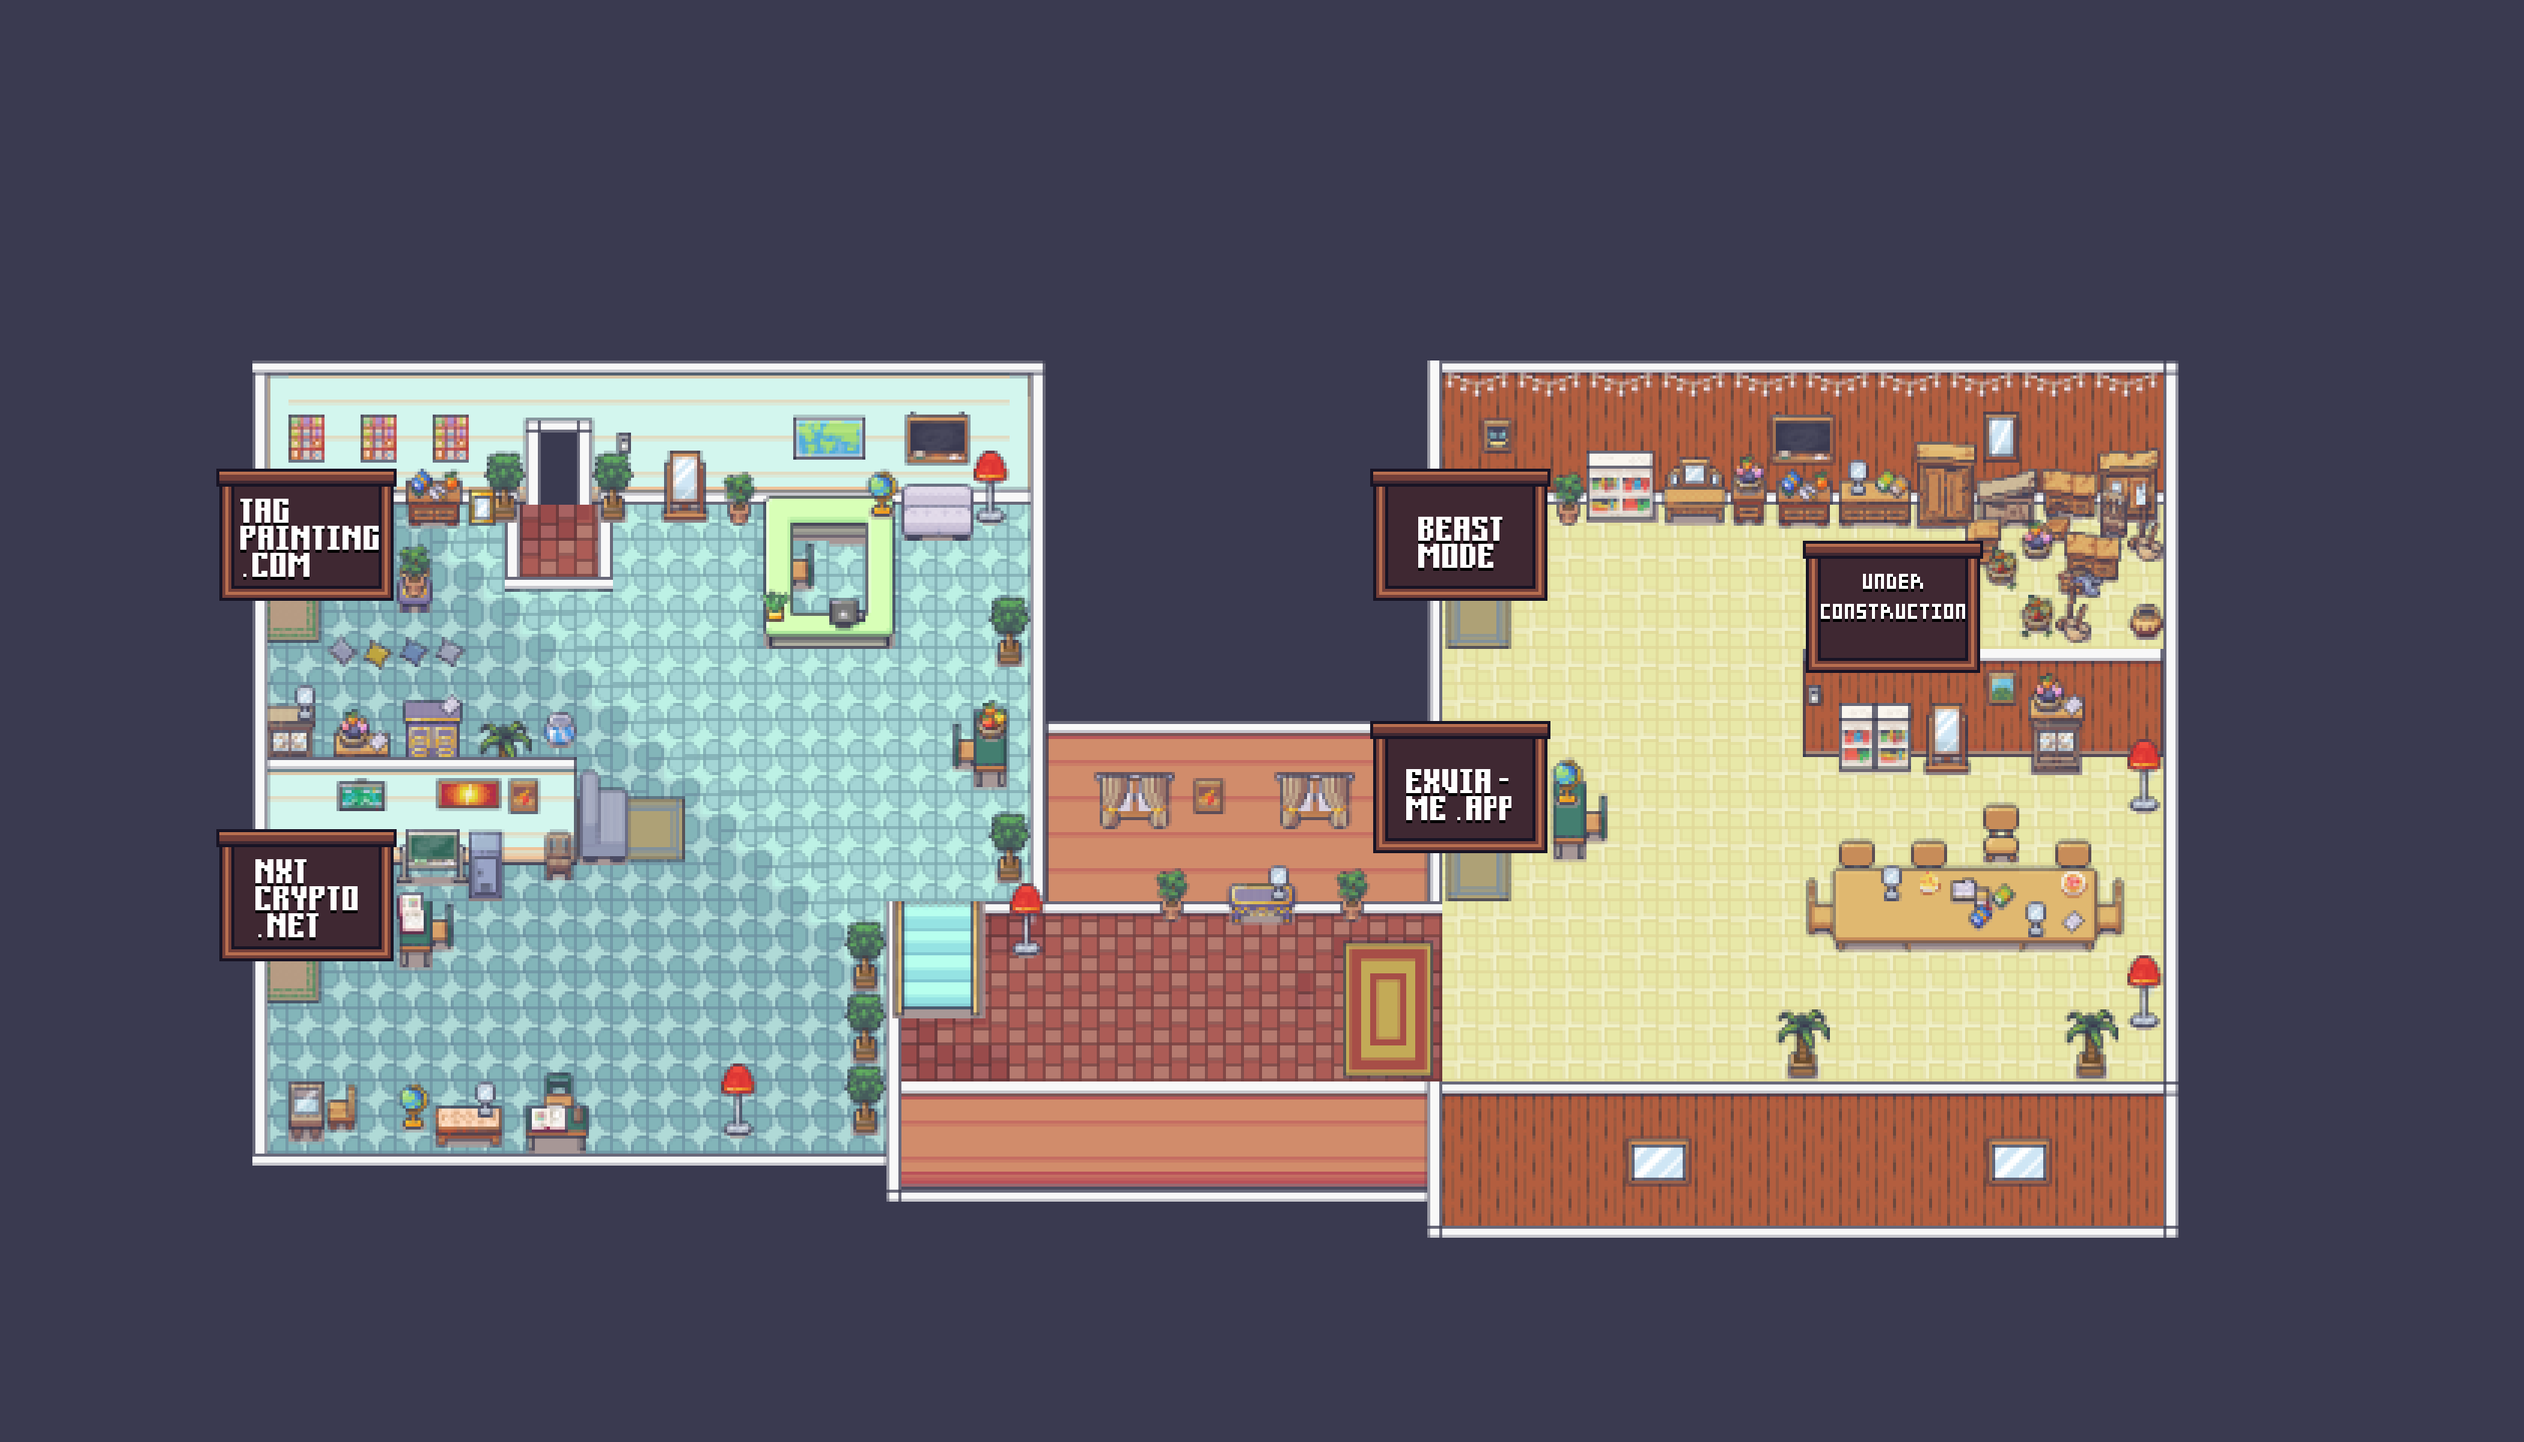
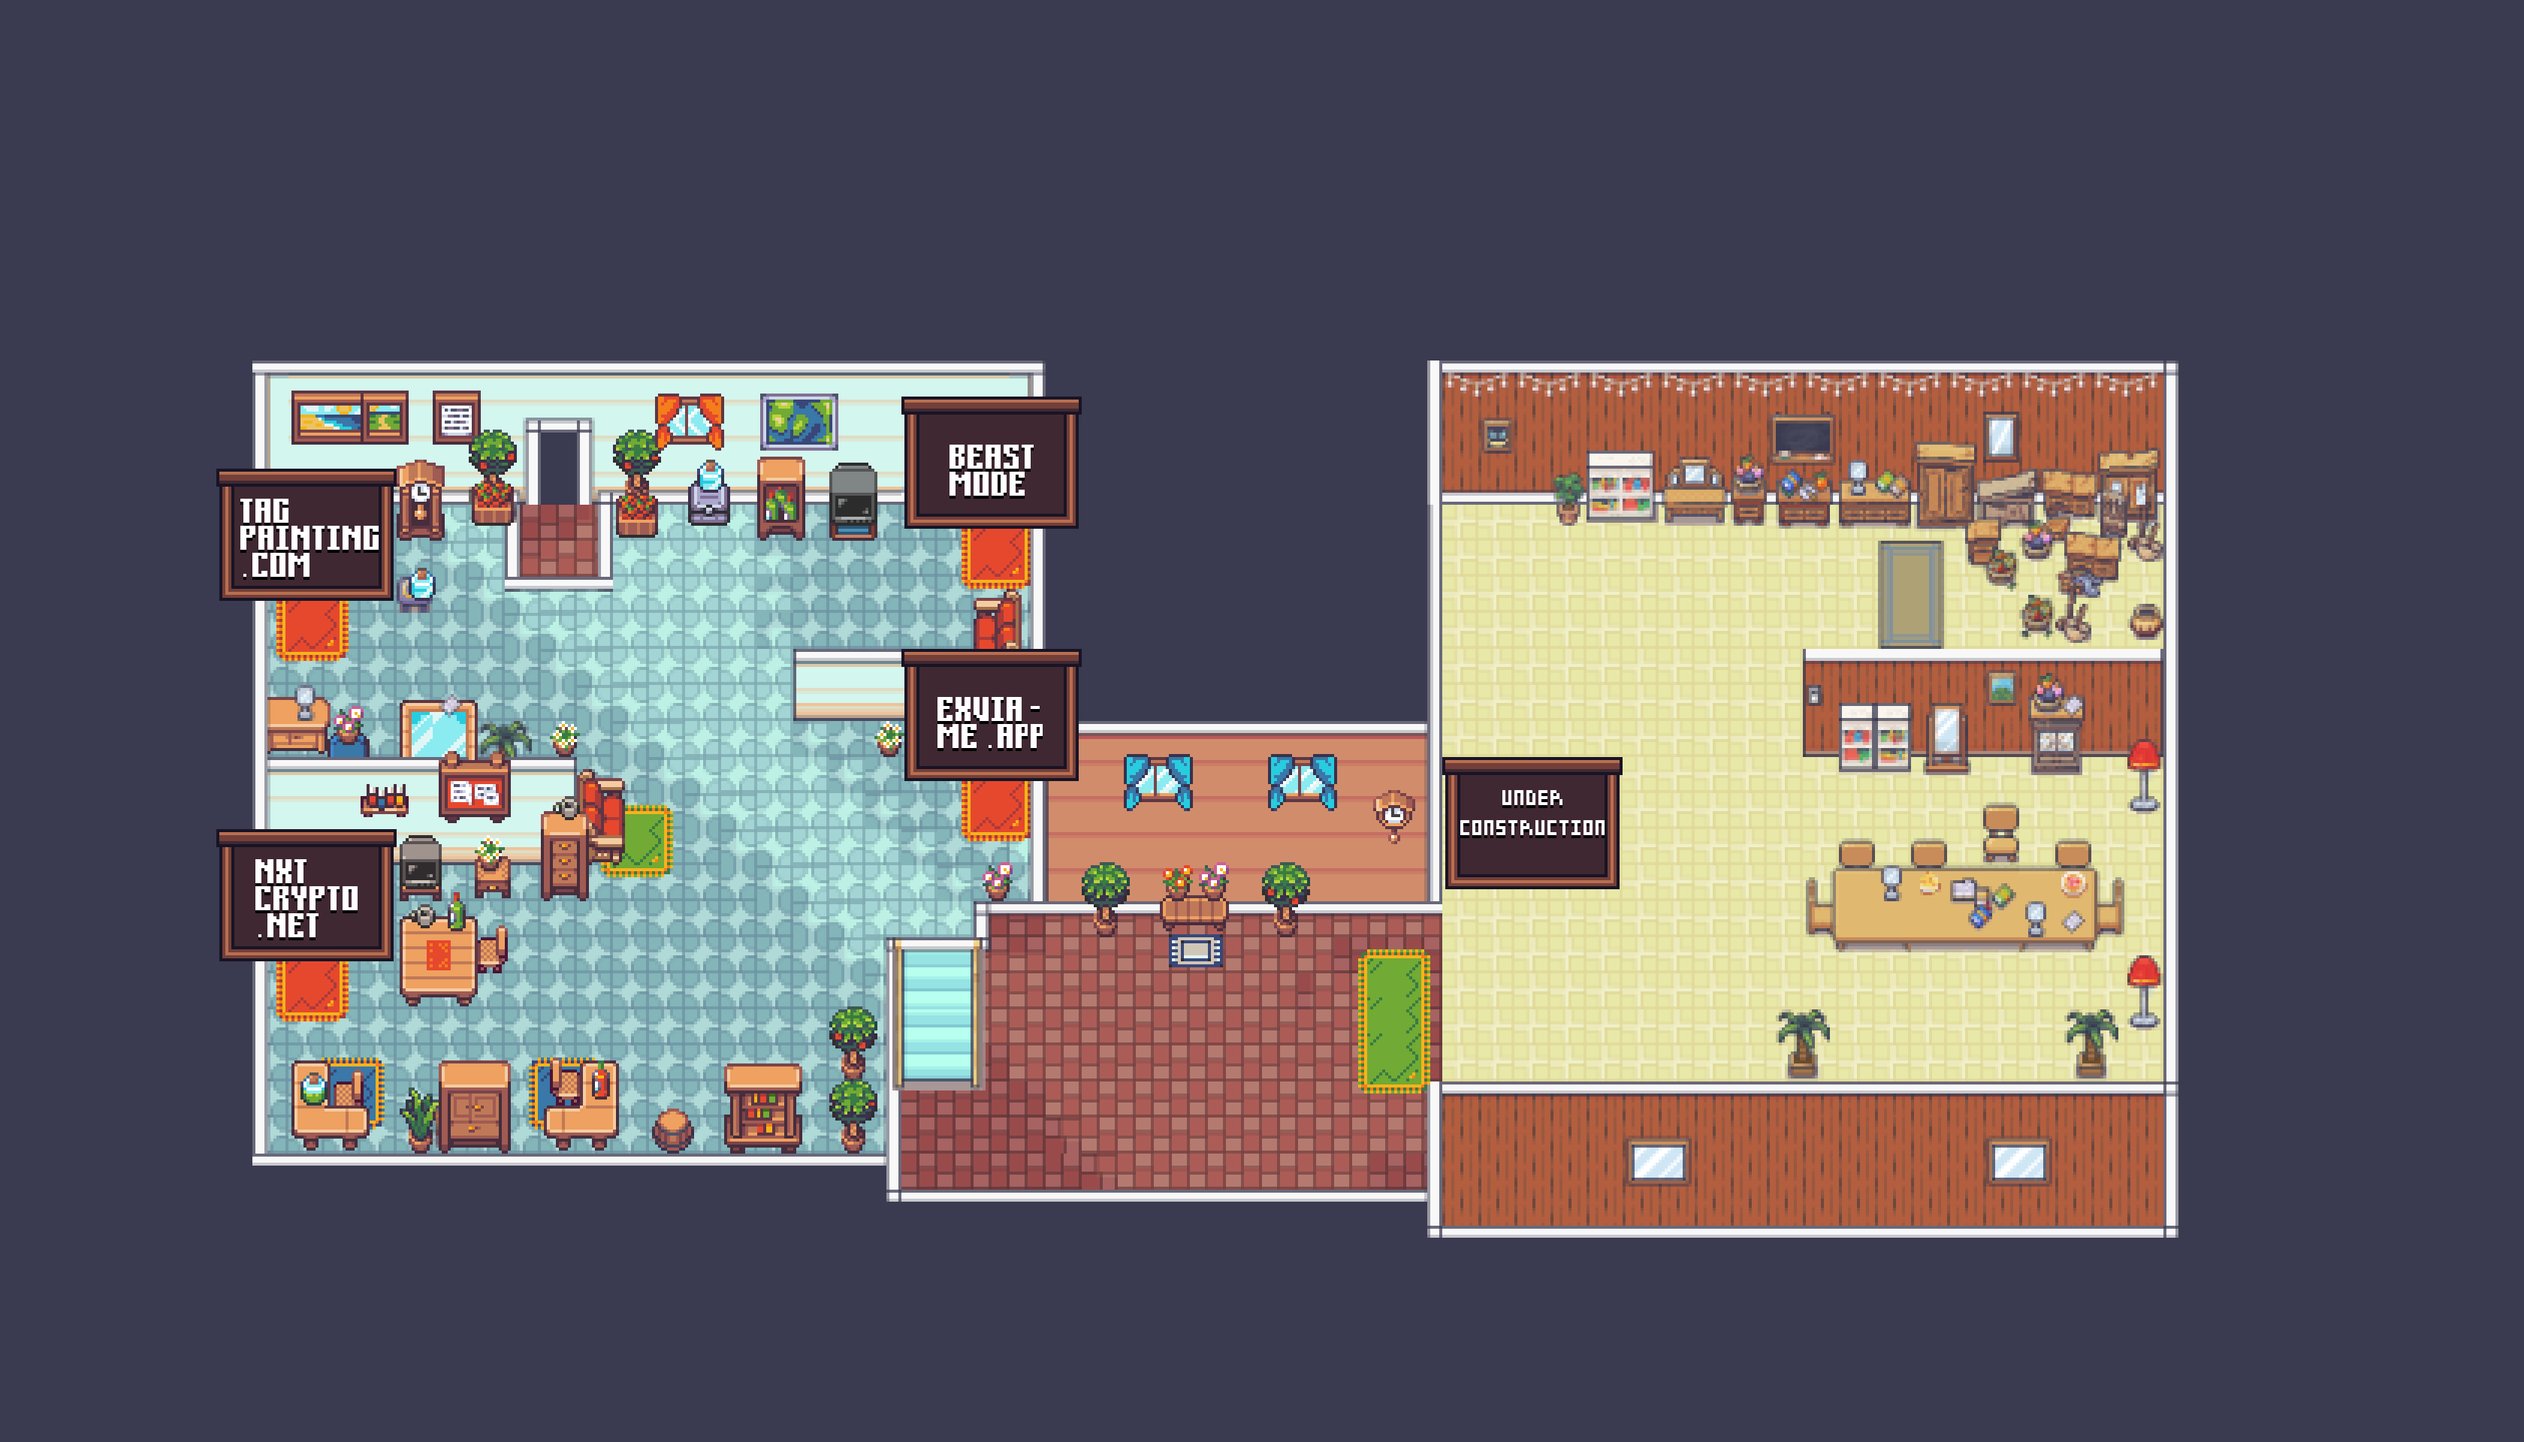
portfolio map

Changed region(s): [[0.0938, 0.25, 0.6562, 0.8438], [0.5312, 0.3125, 0.625, 0.4688], [0.6875, 0.375, 0.8125, 0.4688]]

diff --git a/js/data/portCollision.js b/js/data/portCollision.js
@@ -37,66 +37,65 @@ const portCollision = [
   0, 0, 0, 0, 0, 0, 0, 0, 0, 0, 392, 392, 392, 392, 0, 0, 0, 0, 0, 0, 0, 0, 0,
   0, 0, 0, 0, 0, 0, 0, 0, 0, 0, 0, 0, 0, 0, 0, 0, 0, 0, 0, 0, 0, 0, 0, 0, 0, 0,
   0, 0, 0, 0, 0, 0, 0, 0, 0, 0, 0, 0, 0, 0, 0, 0, 392, 392, 392, 392, 0, 0, 0,
-  392, 392, 392, 392, 0, 0, 0, 392, 0, 0, 0, 0, 392, 0, 0, 0, 0, 0, 0, 0, 0, 0,
+  392, 392, 392, 392, 392, 392, 392, 392, 0, 0, 0, 0, 392, 0, 0, 0, 0, 0, 0, 0,
   0, 0, 0, 392, 392, 392, 392, 392, 392, 392, 392, 392, 392, 392, 392, 392, 392,
-  392, 392, 392, 392, 0, 0, 0, 0, 0, 0, 0, 0, 0, 0, 0, 0, 0, 0, 0, 0, 0, 0, 0,
-  0, 392, 0, 0, 0, 0, 0, 0, 0, 0, 0, 0, 392, 0, 0, 392, 0, 0, 0, 0, 392, 0, 0,
-  0, 0, 0, 0, 0, 0, 0, 0, 0, 392, 0, 0, 0, 0, 0, 0, 0, 0, 392, 0, 0, 0, 0, 0, 0,
-  0, 0, 0, 392, 0, 0, 0, 0, 0, 0, 0, 0, 0, 0, 0, 0, 0, 0, 0, 0, 392, 392, 392,
-  0, 0, 0, 0, 0, 0, 0, 0, 0, 0, 0, 392, 0, 0, 392, 0, 0, 0, 0, 392, 0, 0, 0, 0,
-  0, 0, 0, 0, 0, 0, 392, 392, 0, 0, 0, 0, 0, 0, 0, 0, 392, 0, 0, 0, 0, 0, 0, 0,
-  0, 0, 392, 0, 0, 0, 0, 0, 0, 0, 0, 0, 0, 0, 0, 0, 0, 0, 392, 0, 0, 0, 0, 0, 0,
-  0, 0, 0, 0, 0, 0, 0, 0, 392, 392, 392, 392, 0, 0, 0, 0, 392, 0, 0, 0, 0, 0, 0,
-  0, 0, 0, 392, 0, 0, 0, 0, 0, 0, 0, 0, 0, 0, 392, 0, 0, 0, 0, 0, 0, 0, 0, 0,
-  392, 0, 0, 0, 0, 0, 0, 0, 0, 0, 0, 0, 0, 0, 0, 0, 392, 0, 0, 0, 0, 0, 0, 0, 0,
-  0, 0, 0, 0, 0, 0, 0, 0, 0, 0, 0, 0, 0, 0, 392, 0, 0, 0, 0, 0, 0, 0, 0, 0, 392,
-  0, 0, 0, 0, 0, 0, 0, 0, 0, 0, 392, 0, 0, 0, 0, 0, 0, 0, 0, 0, 392, 0, 0, 0, 0,
-  0, 0, 0, 0, 0, 0, 0, 0, 0, 0, 0, 392, 0, 0, 0, 0, 0, 0, 0, 0, 0, 0, 0, 0, 0,
-  0, 0, 0, 0, 0, 0, 0, 0, 0, 392, 0, 0, 0, 0, 0, 0, 0, 0, 0, 392, 0, 0, 0, 0, 0,
-  0, 0, 0, 0, 0, 392, 0, 0, 0, 0, 0, 0, 0, 0, 0, 392, 0, 0, 0, 0, 0, 0, 0, 0, 0,
-  0, 0, 0, 0, 0, 0, 392, 0, 0, 0, 0, 0, 0, 0, 0, 0, 0, 0, 0, 0, 0, 0, 0, 0, 0,
-  0, 0, 0, 0, 392, 0, 0, 0, 0, 0, 0, 0, 0, 0, 392, 0, 0, 0, 0, 0, 0, 0, 0, 0, 0,
-  392, 392, 392, 392, 392, 392, 392, 392, 392, 392, 392, 0, 0, 0, 0, 0, 0, 0, 0,
-  0, 0, 0, 0, 0, 0, 0, 0, 392, 392, 0, 0, 392, 392, 0, 0, 0, 0, 0, 0, 0, 0, 0,
-  0, 0, 0, 0, 0, 0, 0, 392, 0, 0, 0, 0, 0, 0, 0, 0, 0, 392, 0, 0, 0, 0, 0, 0, 0,
+  392, 392, 392, 392, 392, 392, 0, 0, 0, 0, 0, 0, 0, 0, 0, 0, 0, 0, 0, 0, 0, 0,
+  0, 0, 0, 0, 392, 0, 0, 0, 0, 0, 0, 0, 0, 0, 0, 0, 0, 0, 0, 0, 0, 0, 0, 392, 0,
+  0, 0, 0, 0, 0, 0, 0, 0, 392, 0, 0, 0, 0, 0, 0, 0, 0, 0, 0, 392, 0, 0, 0, 0, 0,
+  0, 0, 0, 0, 392, 0, 0, 0, 0, 0, 0, 0, 0, 0, 0, 0, 0, 0, 0, 0, 0, 392, 392,
+  392, 0, 0, 0, 0, 0, 0, 0, 0, 0, 0, 0, 0, 0, 0, 0, 0, 0, 0, 0, 392, 0, 0, 0, 0,
+  0, 0, 0, 0, 0, 392, 0, 0, 0, 0, 0, 0, 0, 0, 0, 0, 392, 0, 0, 0, 0, 0, 0, 0, 0,
+  0, 392, 0, 0, 0, 0, 0, 0, 0, 0, 0, 0, 0, 0, 0, 0, 0, 392, 0, 0, 0, 0, 0, 0, 0,
+  0, 0, 0, 0, 0, 0, 0, 0, 0, 0, 0, 0, 0, 0, 0, 392, 0, 0, 0, 0, 0, 0, 0, 0, 0,
+  392, 0, 0, 0, 0, 0, 0, 0, 0, 0, 0, 392, 0, 0, 0, 0, 0, 0, 0, 0, 0, 392, 0, 0,
   0, 0, 0, 0, 0, 0, 0, 0, 0, 0, 0, 0, 0, 392, 0, 0, 0, 0, 0, 0, 0, 0, 0, 0, 0,
-  0, 0, 0, 0, 0, 0, 0, 392, 392, 0, 0, 392, 392, 392, 0, 0, 0, 0, 0, 0, 0, 0, 0,
+  0, 0, 0, 0, 0, 0, 0, 0, 0, 0, 0, 392, 0, 0, 0, 0, 0, 0, 0, 0, 0, 392, 0, 0, 0,
+  0, 0, 0, 0, 0, 0, 0, 392, 0, 0, 0, 0, 0, 0, 0, 0, 0, 392, 0, 0, 0, 0, 0, 0, 0,
+  0, 0, 0, 0, 0, 0, 0, 0, 392, 0, 0, 0, 0, 0, 0, 0, 0, 0, 0, 0, 0, 0, 0, 0, 392,
+  392, 392, 0, 0, 0, 0, 392, 0, 0, 0, 0, 0, 0, 0, 0, 0, 392, 0, 0, 0, 0, 0, 0,
   0, 0, 0, 0, 392, 0, 0, 0, 0, 0, 0, 0, 0, 0, 392, 0, 0, 0, 0, 0, 0, 0, 0, 0, 0,
-  0, 0, 0, 0, 0, 0, 0, 0, 0, 0, 392, 0, 0, 0, 0, 0, 0, 0, 0, 0, 0, 0, 0, 0, 0,
-  0, 0, 0, 0, 0, 0, 0, 0, 0, 0, 392, 0, 0, 0, 0, 0, 0, 0, 0, 0, 0, 0, 0, 0, 392,
-  0, 0, 0, 0, 0, 0, 0, 0, 0, 392, 392, 392, 392, 0, 0, 0, 0, 0, 0, 0, 0, 0, 0,
+  0, 0, 0, 0, 0, 392, 0, 0, 0, 0, 0, 0, 0, 0, 0, 0, 0, 0, 0, 0, 0, 0, 0, 0, 392,
+  392, 392, 392, 392, 0, 0, 0, 0, 0, 0, 0, 0, 0, 392, 0, 0, 0, 0, 0, 0, 0, 0, 0,
+  0, 392, 392, 392, 392, 392, 392, 392, 392, 392, 392, 392, 0, 0, 0, 0, 0, 0, 0,
+  0, 0, 0, 0, 0, 0, 0, 0, 0, 392, 392, 0, 0, 392, 392, 0, 0, 0, 0, 0, 0, 0, 0,
+  0, 0, 0, 0, 0, 0, 0, 0, 392, 0, 0, 0, 0, 0, 0, 0, 0, 0, 392, 0, 0, 0, 0, 0, 0,
+  0, 0, 0, 0, 0, 0, 0, 0, 0, 0, 0, 0, 0, 0, 392, 0, 0, 0, 0, 0, 0, 0, 0, 0, 0,
+  0, 0, 0, 0, 0, 0, 0, 0, 392, 392, 0, 0, 392, 392, 392, 0, 0, 0, 0, 0, 0, 0, 0,
+  0, 0, 0, 0, 0, 392, 0, 0, 0, 0, 0, 0, 0, 0, 0, 392, 0, 0, 0, 0, 0, 0, 0, 0, 0,
+  0, 0, 0, 0, 0, 0, 0, 0, 0, 0, 0, 392, 0, 0, 0, 0, 0, 0, 0, 0, 0, 0, 0, 0, 0,
+  0, 0, 0, 0, 0, 0, 0, 0, 0, 0, 0, 392, 0, 0, 0, 0, 0, 0, 0, 0, 0, 0, 0, 0, 0,
+  392, 0, 0, 0, 0, 0, 0, 0, 0, 0, 392, 0, 0, 0, 0, 0, 0, 0, 0, 0, 0, 0, 0, 0, 0,
+  0, 0, 0, 0, 0, 0, 392, 0, 0, 0, 0, 0, 0, 0, 0, 0, 0, 0, 0, 0, 0, 0, 0, 0, 0,
+  0, 0, 0, 392, 392, 392, 0, 0, 0, 0, 0, 0, 0, 0, 0, 0, 0, 0, 0, 0, 392, 0, 0,
   0, 0, 0, 0, 0, 0, 0, 392, 0, 0, 0, 0, 0, 0, 0, 0, 0, 0, 0, 0, 0, 0, 0, 0, 0,
-  0, 0, 0, 0, 392, 392, 392, 0, 0, 0, 0, 0, 0, 0, 0, 0, 0, 0, 0, 0, 0, 392, 0,
-  0, 0, 0, 0, 0, 0, 0, 0, 392, 0, 0, 0, 0, 0, 0, 0, 0, 0, 0, 0, 0, 0, 0, 0, 0,
-  0, 0, 0, 0, 392, 0, 0, 0, 0, 0, 0, 0, 0, 0, 0, 0, 0, 0, 0, 0, 0, 0, 0, 0, 0,
-  392, 0, 0, 0, 0, 0, 0, 0, 0, 0, 0, 0, 0, 0, 0, 0, 0, 392, 392, 392, 392, 392,
-  392, 392, 392, 392, 392, 392, 392, 0, 0, 0, 0, 0, 0, 0, 0, 0, 0, 0, 392, 392,
-  392, 392, 392, 392, 392, 0, 0, 392, 0, 0, 0, 0, 0, 0, 0, 0, 0, 0, 0, 0, 0, 0,
-  0, 0, 392, 392, 392, 392, 392, 0, 0, 0, 0, 0, 0, 0, 0, 0, 0, 0, 0, 0, 0, 0, 0,
+  0, 0, 0, 392, 0, 0, 0, 0, 0, 0, 0, 0, 0, 0, 0, 0, 0, 0, 0, 0, 0, 0, 0, 0, 392,
+  0, 0, 0, 0, 0, 0, 0, 0, 0, 0, 0, 0, 0, 0, 0, 0, 0, 392, 392, 392, 392, 392,
+  392, 392, 392, 392, 392, 392, 0, 0, 0, 0, 0, 0, 0, 0, 0, 0, 0, 392, 392, 392,
+  392, 392, 392, 392, 0, 0, 392, 0, 0, 0, 0, 0, 0, 0, 0, 0, 0, 0, 0, 0, 0, 0, 0,
+  392, 392, 392, 392, 392, 0, 0, 0, 0, 0, 0, 0, 0, 0, 0, 0, 0, 0, 0, 0, 392,
   392, 0, 0, 0, 0, 0, 0, 0, 0, 0, 0, 0, 0, 0, 0, 0, 0, 0, 0, 0, 0, 0, 0, 392,
   392, 392, 392, 392, 392, 392, 0, 0, 392, 0, 0, 0, 0, 0, 0, 0, 0, 0, 0, 0, 0,
-  0, 0, 0, 392, 0, 0, 0, 0, 0, 0, 0, 0, 0, 0, 0, 0, 0, 0, 0, 0, 0, 392, 0, 0, 0,
-  392, 0, 0, 0, 0, 0, 0, 0, 0, 0, 0, 0, 0, 0, 0, 0, 0, 0, 0, 0, 0, 0, 0, 0, 0,
-  0, 0, 0, 0, 0, 0, 0, 392, 0, 0, 0, 0, 0, 0, 0, 0, 0, 0, 0, 0, 0, 0, 0, 392, 0,
-  0, 0, 0, 0, 0, 0, 0, 0, 0, 0, 0, 0, 0, 0, 0, 0, 392, 0, 0, 0, 0, 0, 0, 0, 0,
+  0, 0, 0, 392, 0, 0, 0, 0, 392, 392, 0, 0, 0, 0, 0, 0, 0, 0, 0, 0, 0, 392, 0,
   0, 0, 0, 0, 0, 0, 0, 0, 0, 0, 0, 0, 0, 0, 0, 0, 0, 0, 0, 0, 0, 0, 0, 0, 0, 0,
-  0, 392, 0, 0, 0, 0, 0, 0, 0, 0, 0, 0, 0, 0, 0, 0, 0, 392, 0, 0, 0, 0, 0, 0, 0,
-  0, 0, 0, 0, 0, 0, 0, 0, 0, 0, 392, 0, 0, 0, 0, 0, 0, 0, 0, 0, 0, 0, 0, 0, 0,
-  0, 0, 0, 0, 0, 0, 0, 0, 0, 0, 0, 0, 0, 0, 0, 0, 0, 0, 0, 0, 0, 392, 0, 0, 0,
-  0, 0, 0, 0, 0, 0, 0, 0, 0, 0, 0, 0, 392, 0, 0, 0, 0, 0, 0, 0, 0, 0, 0, 0, 0,
-  0, 0, 0, 0, 0, 392, 0, 0, 0, 0, 0, 0, 0, 0, 0, 0, 0, 0, 0, 0, 0, 0, 0, 0, 0,
-  0, 0, 0, 0, 0, 0, 0, 0, 0, 0, 0, 0, 0, 0, 0, 0, 392, 0, 0, 0, 0, 0, 0, 0, 0,
-  0, 0, 0, 0, 0, 0, 0, 392, 0, 0, 0, 0, 0, 0, 0, 0, 0, 0, 0, 0, 0, 0, 0, 0, 0,
-  392, 0, 0, 0, 0, 0, 0, 0, 0, 0, 0, 0, 0, 0, 0, 0, 0, 0, 0, 0, 0, 0, 0, 0, 0,
+  0, 0, 0, 0, 0, 0, 0, 0, 392, 0, 0, 0, 0, 0, 0, 0, 0, 0, 0, 0, 0, 0, 0, 0, 392,
+  0, 0, 0, 0, 0, 0, 0, 0, 0, 0, 0, 0, 0, 0, 0, 0, 0, 392, 0, 0, 0, 0, 0, 0, 0,
+  0, 0, 0, 0, 0, 0, 0, 0, 0, 0, 0, 0, 0, 0, 0, 0, 0, 0, 0, 0, 0, 0, 0, 0, 0, 0,
+  0, 0, 392, 0, 0, 0, 0, 0, 0, 0, 0, 0, 0, 0, 0, 0, 0, 0, 392, 0, 0, 0, 0, 0, 0,
   0, 0, 0, 0, 0, 0, 0, 0, 0, 0, 0, 392, 0, 0, 0, 0, 0, 0, 0, 0, 0, 0, 0, 0, 0,
-  0, 0, 392, 0, 0, 0, 0, 0, 0, 0, 0, 0, 0, 0, 0, 0, 0, 0, 0, 0, 392, 0, 0, 0, 0,
-  0, 0, 0, 0, 0, 0, 0, 0, 0, 0, 0, 0, 0, 0, 0, 0, 0, 0, 0, 0, 0, 0, 0, 0, 0, 0,
-  0, 0, 0, 0, 0, 392, 0, 0, 0, 0, 0, 0, 0, 0, 0, 0, 0, 0, 0, 0, 0, 392, 0, 0, 0,
-  0, 0, 0, 0, 0, 0, 0, 0, 0, 0, 0, 0, 0, 0, 392, 392, 392, 392, 392, 392, 392,
+  0, 0, 0, 0, 0, 0, 0, 0, 0, 0, 0, 0, 0, 0, 0, 0, 0, 0, 0, 0, 0, 0, 392, 0, 0,
+  0, 0, 0, 0, 0, 0, 0, 0, 0, 0, 0, 0, 0, 392, 0, 0, 0, 0, 0, 0, 0, 0, 0, 0, 0,
+  0, 0, 0, 0, 0, 0, 392, 0, 0, 0, 0, 0, 0, 0, 0, 0, 0, 0, 0, 0, 0, 0, 0, 0, 0,
+  0, 0, 0, 0, 0, 0, 0, 0, 0, 0, 0, 0, 0, 0, 0, 0, 0, 392, 0, 0, 0, 0, 0, 0, 0,
+  0, 0, 0, 0, 0, 0, 0, 0, 392, 0, 0, 0, 0, 0, 0, 0, 0, 0, 0, 0, 0, 0, 0, 0, 0,
+  0, 392, 0, 0, 0, 0, 0, 0, 0, 0, 0, 0, 0, 0, 0, 0, 0, 0, 0, 0, 0, 0, 0, 0, 0,
+  0, 0, 0, 0, 0, 0, 0, 0, 0, 0, 0, 0, 392, 0, 0, 0, 0, 0, 0, 0, 0, 0, 0, 0, 0,
+  0, 0, 0, 392, 0, 392, 392, 0, 0, 392, 392, 0, 392, 392, 0, 392, 0, 392, 392,
+  0, 0, 392, 0, 0, 0, 0, 0, 0, 0, 0, 0, 0, 0, 0, 0, 0, 0, 0, 0, 0, 0, 0, 0, 0,
+  0, 0, 0, 0, 0, 0, 0, 0, 0, 0, 0, 0, 0, 392, 0, 0, 0, 0, 0, 0, 0, 0, 0, 0, 0,
+  0, 0, 0, 0, 0, 392, 0, 0, 392, 392, 0, 0, 392, 0, 0, 392, 0, 392, 0, 0, 392,
   392, 392, 392, 392, 392, 392, 392, 392, 392, 392, 392, 392, 392, 392, 392,
-  392, 392, 392, 392, 392, 392, 392, 392, 392, 392, 392, 392, 392, 392, 0, 0, 0,
-  0, 0, 0, 0, 0, 0, 0, 0, 0, 0, 0, 0, 0, 0, 392, 392, 392, 392, 392, 392, 392,
-  392, 392, 392, 392, 392, 392, 392, 392, 392, 392, 0, 0, 0, 0, 0, 0, 0, 0, 0,
+  392, 392, 392, 392, 392, 392, 392, 392, 392, 392, 392, 392, 392, 392, 392,
+  392, 392, 392, 392, 392, 392, 392, 0, 0, 0, 0, 0, 0, 0, 0, 0, 0, 0, 0, 0, 0,
   0, 0, 0, 0, 0, 0, 0, 0, 0, 0, 0, 0, 0, 0, 0, 0, 0, 0, 0, 0, 0, 0, 0, 0, 0, 0,
   0, 0, 0, 0, 0, 0, 0, 0, 0, 0, 0, 0, 0, 0, 0, 0, 0, 0, 0, 0, 0, 0, 0, 0, 0, 0,
   0, 0, 0, 0, 0, 0, 0, 0, 0, 0, 0, 0, 0, 0, 0, 0, 0, 0, 0, 0, 0, 0, 0, 0, 0, 0,
@@ -114,5 +113,6 @@ const portCollision = [
   0, 0, 0, 0, 0, 0, 0, 0, 0, 0, 0, 0, 0, 0, 0, 0, 0, 0, 0, 0, 0, 0, 0, 0, 0, 0,
   0, 0, 0, 0, 0, 0, 0, 0, 0, 0, 0, 0, 0, 0, 0, 0, 0, 0, 0, 0, 0, 0, 0, 0, 0, 0,
   0, 0, 0, 0, 0, 0, 0, 0, 0, 0, 0, 0, 0, 0, 0, 0, 0, 0, 0, 0, 0, 0, 0, 0, 0, 0,
-  0, 0, 0, 0, 0, 0, 0, 0, 0, 0, 0, 0, 0, 0, 0,
+  0, 0, 0, 0, 0, 0, 0, 0, 0, 0, 0, 0, 0, 0, 0, 0, 0, 0, 0, 0, 0, 0, 0, 0, 0, 0,
+  0, 0, 0, 0, 0, 0, 0, 0, 0, 0, 0, 0, 0, 0, 0, 0, 0, 0,
 ];

diff --git a/js/data/enterWebFour.js b/js/data/enterWebFour.js
@@ -39,13 +39,13 @@ const enterWeb4Data = [
   0, 0, 0, 0, 0, 0, 0, 0, 0, 0, 0, 0, 0, 0, 0, 0, 0, 0, 0, 0, 0, 0, 0, 0, 0, 0,
   0, 0, 0, 0, 0, 0, 0, 0, 0, 0, 0, 0, 0, 0, 0, 0, 0, 0, 0, 0, 0, 0, 0, 0, 0, 0,
   0, 0, 0, 0, 0, 0, 0, 0, 0, 0, 0, 0, 0, 0, 0, 0, 0, 0, 0, 0, 0, 0, 0, 0, 0, 0,
+  0, 0, 0, 0, 0, 0, 0, 0, 0, 0, 0, 0, 0, 0, 0, 0, 0, 0, 0, 393, 393, 0, 0, 0, 0,
   0, 0, 0, 0, 0, 0, 0, 0, 0, 0, 0, 0, 0, 0, 0, 0, 0, 0, 0, 0, 0, 0, 0, 0, 0, 0,
   0, 0, 0, 0, 0, 0, 0, 0, 0, 0, 0, 0, 0, 0, 0, 0, 0, 0, 0, 0, 0, 0, 0, 0, 0, 0,
   0, 0, 0, 0, 0, 0, 0, 0, 0, 0, 0, 0, 0, 0, 0, 0, 0, 0, 0, 0, 0, 0, 0, 0, 0, 0,
   0, 0, 0, 0, 0, 0, 0, 0, 0, 0, 0, 0, 0, 0, 0, 0, 0, 0, 0, 0, 0, 0, 0, 0, 0, 0,
   0, 0, 0, 0, 0, 0, 0, 0, 0, 0, 0, 0, 0, 0, 0, 0, 0, 0, 0, 0, 0, 0, 0, 0, 0, 0,
   0, 0, 0, 0, 0, 0, 0, 0, 0, 0, 0, 0, 0, 0, 0, 0, 0, 0, 0, 0, 0, 0, 0, 0, 0, 0,
-  0, 0, 0, 0, 0, 0, 0, 0, 0, 0, 0, 0, 0, 0, 0, 0, 393, 393, 0, 0, 0, 0, 0, 0, 0,
   0, 0, 0, 0, 0, 0, 0, 0, 0, 0, 0, 0, 0, 0, 0, 0, 0, 0, 0, 0, 0, 0, 0, 0, 0, 0,
   0, 0, 0, 0, 0, 0, 0, 0, 0, 0, 0, 0, 0, 0, 0, 0, 0, 0, 0, 0, 0, 0, 0, 0, 0, 0,
   0, 0, 0, 0, 0, 0, 0, 0, 0, 0, 0, 0, 0, 0, 0, 0, 0, 0, 0, 0, 0, 0, 0, 0, 0, 0,

diff --git a/js/data/enterWebThree.js b/js/data/enterWebThree.js
@@ -58,13 +58,13 @@ const enterWeb3Data = [
   0, 0, 0, 0, 0, 0, 0, 0, 0, 0, 0, 0, 0, 0, 0, 0, 0, 0, 0, 0, 0, 0, 0, 0, 0, 0,
   0, 0, 0, 0, 0, 0, 0, 0, 0, 0, 0, 0, 0, 0, 0, 0, 0, 0, 0, 0, 0, 0, 0, 0, 0, 0,
   0, 0, 0, 0, 0, 0, 0, 0, 0, 0, 0, 0, 0, 0, 0, 0, 0, 0, 0, 0, 0, 0, 0, 0, 0, 0,
+  0, 0, 0, 0, 0, 0, 0, 0, 0, 0, 0, 0, 0, 0, 0, 393, 393, 0, 0, 0, 0, 0, 0, 0, 0,
   0, 0, 0, 0, 0, 0, 0, 0, 0, 0, 0, 0, 0, 0, 0, 0, 0, 0, 0, 0, 0, 0, 0, 0, 0, 0,
   0, 0, 0, 0, 0, 0, 0, 0, 0, 0, 0, 0, 0, 0, 0, 0, 0, 0, 0, 0, 0, 0, 0, 0, 0, 0,
   0, 0, 0, 0, 0, 0, 0, 0, 0, 0, 0, 0, 0, 0, 0, 0, 0, 0, 0, 0, 0, 0, 0, 0, 0, 0,
   0, 0, 0, 0, 0, 0, 0, 0, 0, 0, 0, 0, 0, 0, 0, 0, 0, 0, 0, 0, 0, 0, 0, 0, 0, 0,
   0, 0, 0, 0, 0, 0, 0, 0, 0, 0, 0, 0, 0, 0, 0, 0, 0, 0, 0, 0, 0, 0, 0, 0, 0, 0,
   0, 0, 0, 0, 0, 0, 0, 0, 0, 0, 0, 0, 0, 0, 0, 0, 0, 0, 0, 0, 0, 0, 0, 0, 0, 0,
-  0, 0, 0, 0, 0, 0, 0, 0, 0, 0, 0, 0, 393, 393, 0, 0, 0, 0, 0, 0, 0, 0, 0, 0, 0,
   0, 0, 0, 0, 0, 0, 0, 0, 0, 0, 0, 0, 0, 0, 0, 0, 0, 0, 0, 0, 0, 0, 0, 0, 0, 0,
   0, 0, 0, 0, 0, 0, 0, 0, 0, 0, 0, 0, 0, 0, 0, 0, 0, 0, 0, 0, 0, 0, 0, 0, 0, 0,
   0, 0, 0, 0, 0, 0, 0, 0, 0, 0, 0, 0, 0, 0, 0, 0, 0, 0, 0, 0, 0, 0, 0, 0, 0, 0,
